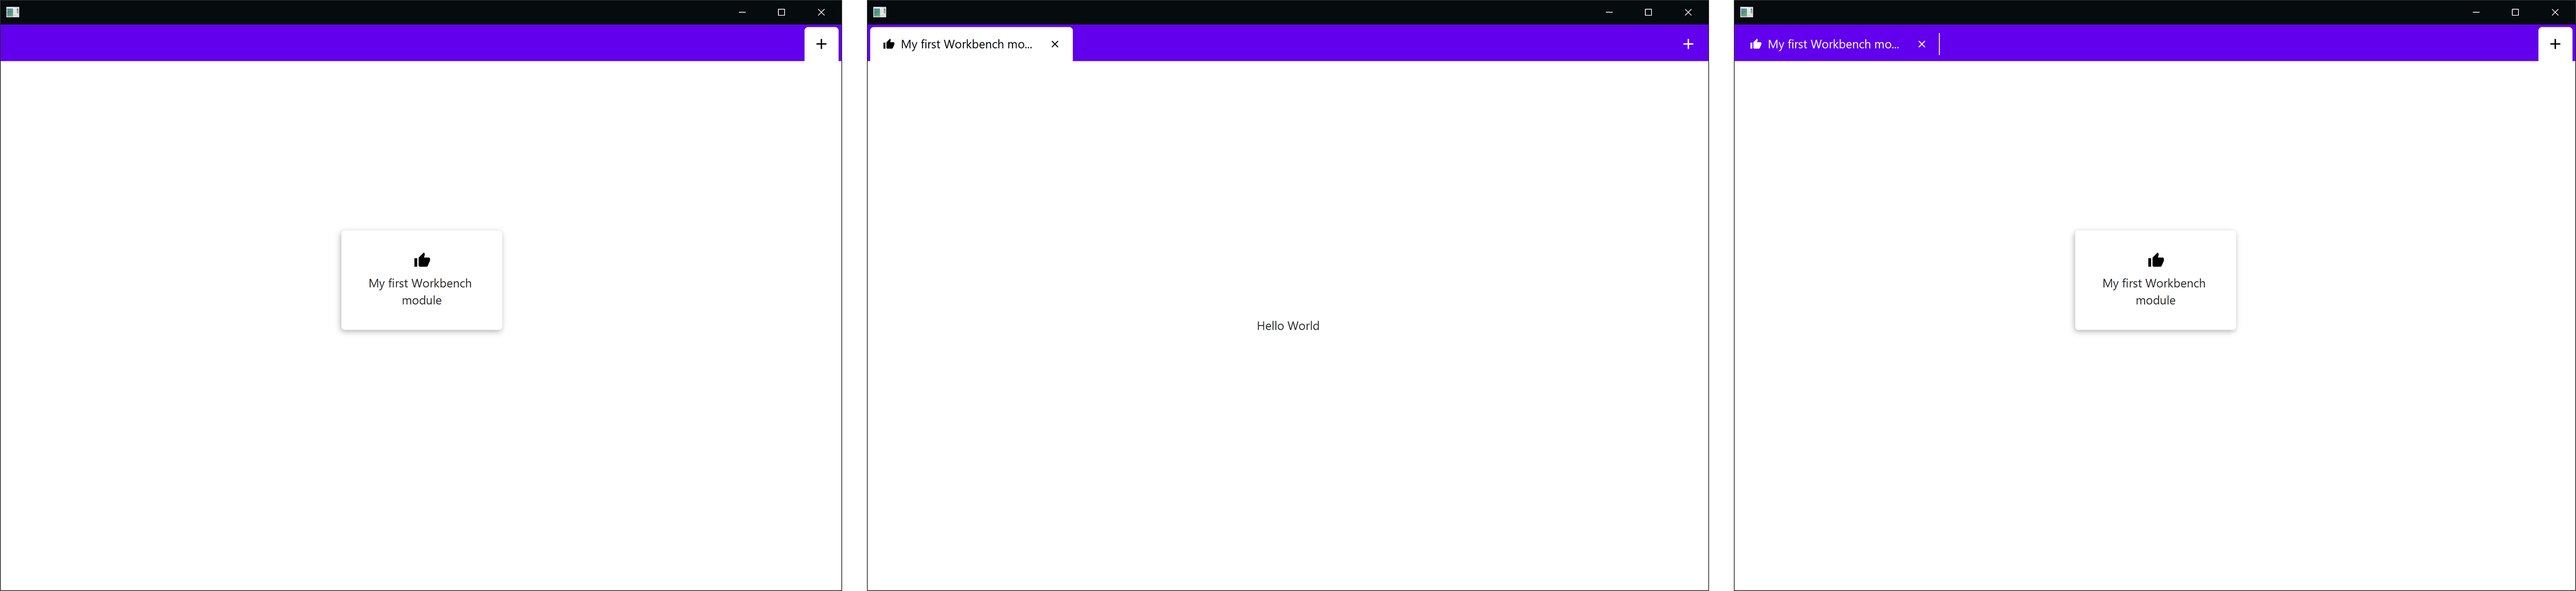
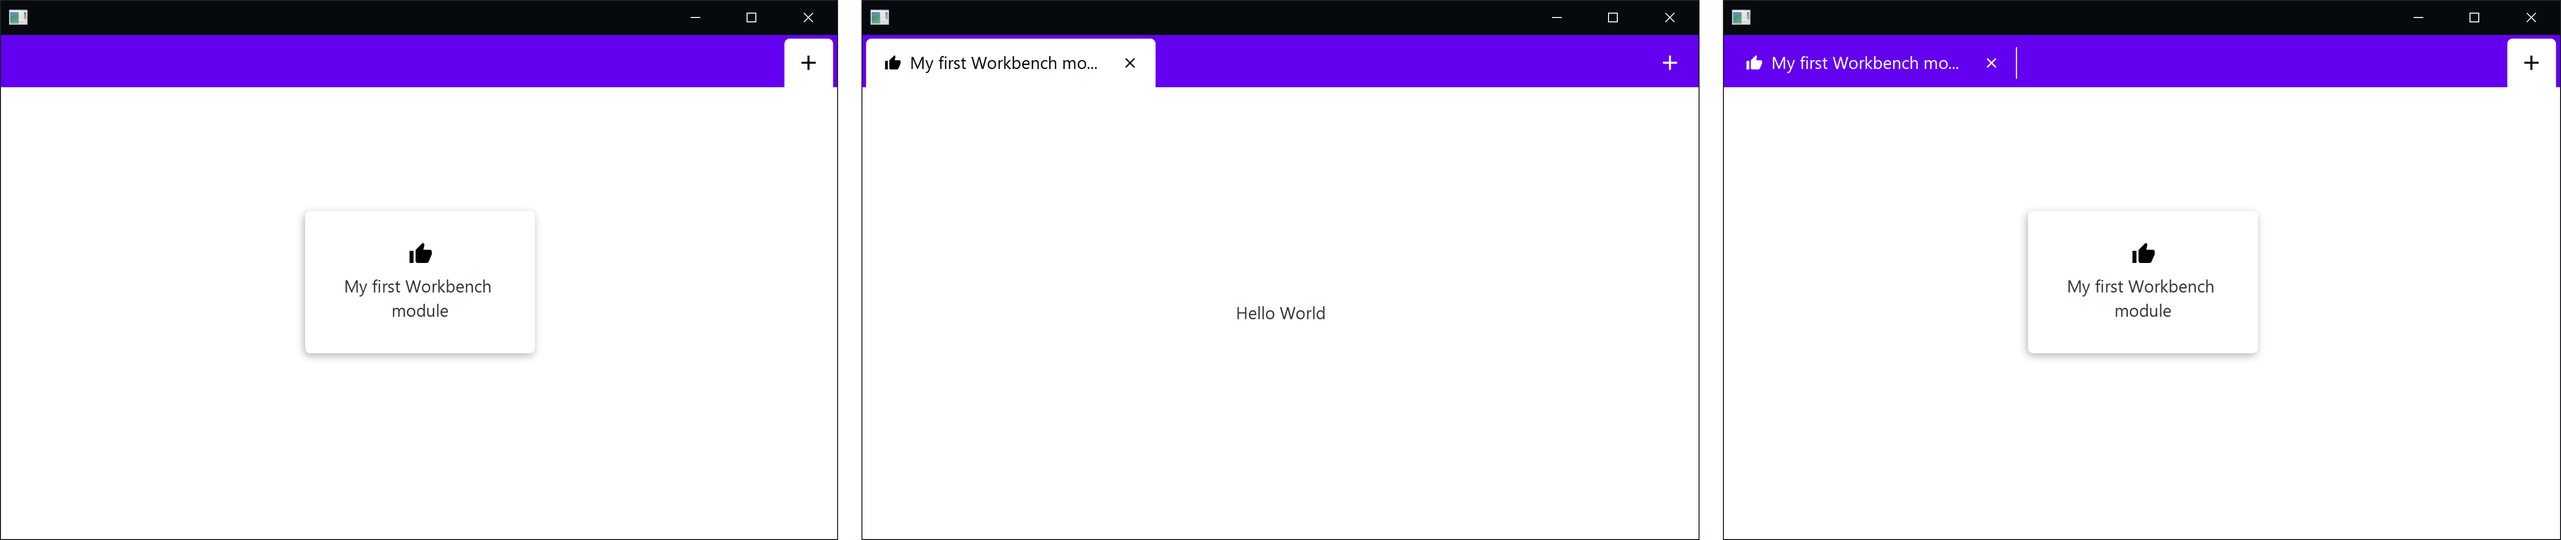
- removed unnecessary chapters - added links to fa und material - updated getting started

diff --git a/workbenchfx-demo/src/main/java/com/dlsc/workbenchfx/custom/CustomDemo.java b/workbenchfx-demo/src/main/java/com/dlsc/workbenchfx/custom/CustomDemo.java
@@ -16,9 +16,7 @@ import com.dlsc.workbenchfx.custom.test.ToolbarItemTestModule;
 import com.dlsc.workbenchfx.custom.test.ToolbarTestModule;
 import com.dlsc.workbenchfx.custom.test.WidgetsTestModule;
 import com.dlsc.workbenchfx.model.WorkbenchModule;
-import com.dlsc.workbenchfx.view.controls.NavigationDrawer;
 import com.dlsc.workbenchfx.view.controls.ToolbarItem;
-import com.dlsc.workbenchfx.view.controls.module.Page;
 import de.jensd.fx.glyphs.fontawesome.FontAwesomeIcon;
 import de.jensd.fx.glyphs.fontawesome.FontAwesomeIconView;
 import de.jensd.fx.glyphs.materialdesignicons.MaterialDesignIcon;
@@ -27,14 +25,11 @@ import javafx.application.Application;
 import javafx.scene.Node;
 import javafx.scene.Scene;
 import javafx.scene.control.Button;
-import javafx.scene.control.CustomMenuItem;
 import javafx.scene.control.Label;
 import javafx.scene.control.Menu;
 import javafx.scene.control.MenuItem;
 import javafx.scene.control.TextField;
-import javafx.scene.image.ImageView;
 import javafx.scene.layout.HBox;
-import javafx.scene.layout.VBox;
 import javafx.stage.Stage;
 import org.apache.logging.log4j.LogManager;
 import org.apache.logging.log4j.Logger;
@@ -56,7 +51,6 @@ public class CustomDemo extends Application {
         new WorkbenchModule("My first Workbench module", MaterialDesignIcon.THUMB_UP) {
           @Override
           public Node activate() {
-            getToolbarControlsLeft()
             return new Label("Hello World");
           }
         }
@@ -64,8 +58,8 @@ public class CustomDemo extends Application {
 
 //    primaryStage.setTitle("WorkbenchFX");
     primaryStage.setScene(myScene);
-    primaryStage.setWidth(1000);
-    primaryStage.setHeight(700);
+    primaryStage.setWidth(700);
+    primaryStage.setHeight(450);
     primaryStage.show();
 //    primaryStage.centerOnScreen();
   }

diff --git a/workbenchfx-core/src/main/java/com/dlsc/workbenchfx/view/ToolbarPresenter.java b/workbenchfx-core/src/main/java/com/dlsc/workbenchfx/view/ToolbarPresenter.java
@@ -92,7 +92,7 @@ public final class ToolbarPresenter extends Presenter {
   @Override
   public final void setupEventHandlers() {
     // When the home button is clicked, the view changes
-    view.addModuleBtn.setOnAction(event -> model.openHomeScreen());
+    view.addModuleBtn.setOnAction(event -> model.openAddModulePage());
     // When the menu button is clicked, the navigation drawer gets shown
     view.menuBtn.setOnAction(event -> model.showNavigationDrawer());
   }
@@ -124,7 +124,7 @@ public final class ToolbarPresenter extends Presenter {
       if (!Objects.isNull(newModule)) {
         model.openModule(newModule);
       } else {
-        model.openHomeScreen();
+        model.openAddModulePage();
       }
     });
     model.activeModuleProperty().addListener((observable, oldModule, newModule) -> {

diff --git a/workbenchfx-core/src/test/java/com/dlsc/workbenchfx/WorkbenchTest.java b/workbenchfx-core/src/test/java/com/dlsc/workbenchfx/WorkbenchTest.java
@@ -294,7 +294,7 @@ class WorkbenchTest extends ApplicationTest {
       inOrder.verify(first).activate();
       verify(first, times(2)).activate();
       // Switch to home screen
-      workbench.openHomeScreen();
+      workbench.openAddModulePage();
       assertSame(null, workbench.getActiveModule());
       assertSame(null, workbench.getActiveModuleView());
       assertEquals(2, workbench.getOpenModules().size());

diff --git a/workbenchfx-core/src/main/java/com/dlsc/workbenchfx/Workbench.java b/workbenchfx-core/src/main/java/com/dlsc/workbenchfx/Workbench.java
@@ -501,9 +501,9 @@ public final class Workbench extends Control {
   }
 
   /**
-   * Goes back to the home screen where the user can choose between modules.
+   * Goes back to the AddModulePage screen where the user can choose between modules.
    */
-  public final void openHomeScreen() {
+  public final void openAddModulePage() {
     activeModule.setValue(null);
   }
 

diff --git a/README.md b/README.md
@@ -19,8 +19,6 @@
 - [ToolbarItem](#toolbaritem)
 - [Using Dialogs](#using-dialogs)
 - [Prevent module from closing](#prevent-module-from-closing)
-- [Version Management](#version-management)
-- [Automated Release Binaries](#automated-release-binaries)
 - [Team](#team)
 
 ## What is WorkbenchFX?
@@ -103,15 +101,28 @@ public class CustomModule extends WorkbenchModule {
 It is then required to call the `super()` constructor and hand over a `String` as name and either an `Image`, `FontawesomeIcon` or `MaterialDesignIcon` as icon for the module:
 
 ```Java
-public class CustomModule extends WorkbenchModule {
-  public CustomModule() {
-      super("My first Workbench module", MaterialDesignIcon.THUMB_UP); // A name and an icon is required
-  }
+public CustomModule() {
+  super("My first Workbench module", MaterialDesignIcon.THUMB_UP); // A name and an icon is required
 }
 ```
 
+Cheatsheets for using the icons are available at:
+- [materialdesignicons.com](https://materialdesignicons.com/)
+- [fontawesome.com](https://fontawesome.com/v4.7.0/)
+
+
 Furthermore, overriding the `activate()` method is also required.
 This method will be called when clicking on the `Tile` to open the module:
+
+```Java
+@Override
+public Node activate() {
+  return new Label("Hello World"); // return here your actual content to display
+}
+```
+
+The minimal implementation of a custom `WorkbenchModule` finally looks like the code snippet below.
+For further information we refer to the `Javadoc`.
 
 ```Java
 public class CustomModule extends WorkbenchModule {
@@ -125,12 +136,18 @@ public class CustomModule extends WorkbenchModule {
 }
 ```
 
-This is a minimal implementation of a custom `WorkbenchModule`.
-For further information we refer to the `Javadoc`.
-
 ### Creating the `Workbench`
 After extending the `WorkbenchModule`, the application can be created.
 To do this, one can access the `WorkbenchBuilder` by calling `Workbench.builder()`, setting the previously written module and build the `Workbench` by calling the `build()` method:
+
+```Java
+// Creating the Workbench
+Workbench customWorkbench = Workbench.builder( // Accessing the WorkbenchBuilder
+    new CustomModule() // Adding the CustomModule
+).build(); // Building the Workbench
+```
+
+It then can be set into a scene:
 
 ```Java
 public class CustomDemo extends Application {
@@ -140,6 +157,7 @@ public class CustomDemo extends Application {
 
   @Override
   public void start(Stage primaryStage) {
+    
     // Creating the Workbench
     Workbench customWorkbench = Workbench.builder( // Accessing the WorkbenchBuilder
         new CustomModule() // Adding the CustomModule
@@ -147,8 +165,8 @@ public class CustomDemo extends Application {
     
     Scene myScene = new Scene(customWorkbench);
     primaryStage.setScene(myScene);
-    primaryStage.setWidth(1000);
-    primaryStage.setHeight(700);
+    primaryStage.setWidth(700);
+    primaryStage.setHeight(450);
     primaryStage.show();
   }
 }
@@ -331,14 +349,6 @@ List of all default Dialogs
 
 ## Prevent module from closing
 // Chapter about using the Dialog to save and close
-
-## Version Management
-To change the version, set the property `workbenchfx.version` in the parent `pom.xml` file to the next version.
-Then, run: `mvn process-resources`
-It will then automatically proceed by updating all versions in all pom files automatically.
-
-## Automated Release Binaries
-// Chapter about automated release binaries
 
 ## Team
 - Marco Sanfratello
